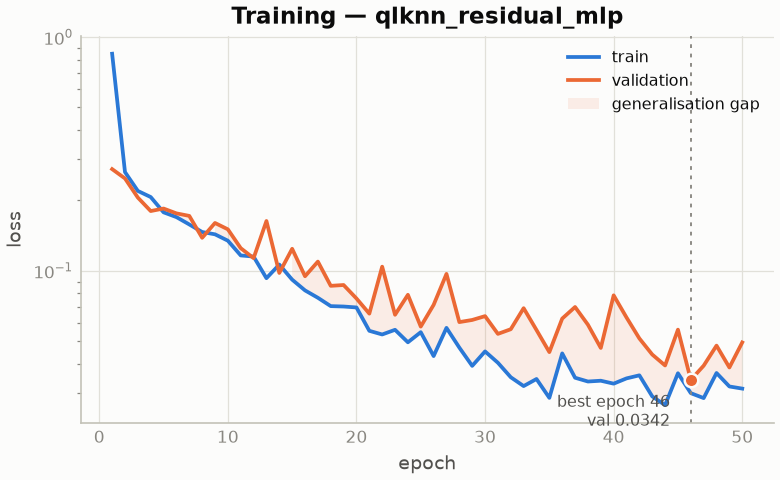
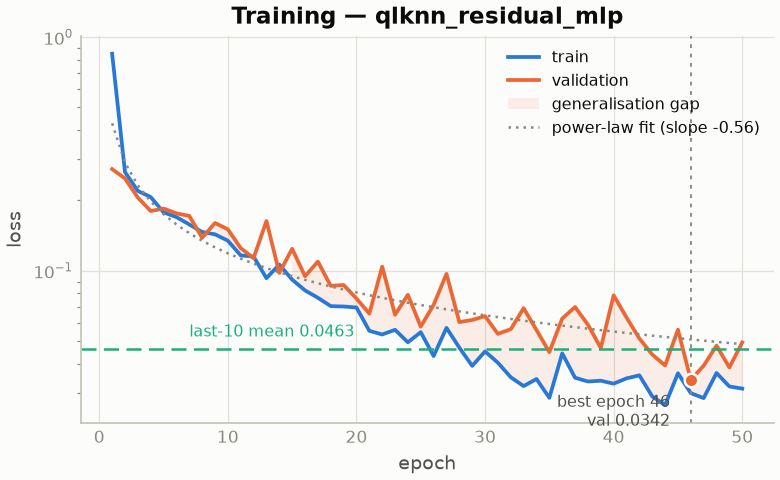
feat(viz,docs): ensemble UQ, three-backend comparison, 2D operator demo, MLflow showcase
New artifact/registry-driven gallery figures:
- ensemble: pytorch.mlp_ensemble (6 members) on QLKNN — mean ± 2σ
  parity (R² 0.84), spread-vs-error density, and honest coverage: raw
  ensemble σ is overconfident; σ-rescaling calibrated on a held-out
  split recovers near-Gaussian coverage
- trio: RF + PyTorch MLP + exact GP on identical 1.8k/600 QLKNN splits
  (R² 0.66 / 0.86 / 0.94) — three backends through one registry
- field2d: FNO-2D learns the periodic Poisson solver source→solution,
  median rel-L2 0.006 on 32×32 fields generated on the fly
- training curves gain a power-law convergence fit and the
  last-10-epoch mean level

README: MLflow badge + 'Experiment tracking' section with a screenshot
of a real SURGE run in the MLflow UI (24 per-model metrics logged via
surge.integrations.mlflow_logger), 2D-operator and ensemble cells in
the results grid, trio figure as evidence under the mixed-backend
example. Gallery page gains the three new sections.

Changed region(s): [[0.0923, 0.6562, 0.9846, 0.75], [0.6462, 0.0938, 0.9846, 0.2812]]

diff --git a/examples/viz_theme_gallery.py b/examples/viz_theme_gallery.py
@@ -19,7 +19,11 @@ Figures (per mode, deterministic PNG/SVG/PDF):
     leaderboard       score ± std vs published threshold + runtime panel
     classification    ROC / PR / confusion / reliability (with ECE)
     field_operator    Burgers' operator learning: truth · prediction · error
+    field2d           FNO-2D on the periodic Poisson problem (2D fields)
     uncertainty       GP surrogate with 95% credible band and coverage
+    ensemble          deep-ensemble UQ with raw vs calibrated coverage
+    trio              RF + PyTorch MLP + GP on identical splits
+    characterization  dataset EDA panel (distributions, SNR, PCA)
 """
 from __future__ import annotations
 
@@ -193,6 +197,22 @@ def training_figure(hpo_run: Path, mode: str):
                         (epochs[best], val[best]),
                         textcoords="offset points", xytext=(-10, -22),
                         ha="right", fontsize=7.5, color=p["ink2"])
+            # power-law convergence fit on the log-log val curve
+            ok = np.isfinite(val) & (val > 0) & (epochs > 0)
+            if ok.sum() > 5:
+                b, a = np.polyfit(np.log(epochs[ok]), np.log(val[ok]), 1)
+                ax.plot(epochs[ok], np.exp(a) * epochs[ok]**b,
+                        color=p["muted"], lw=1.2, ls=(0, (1, 2)),
+                        label=f"power-law fit (slope {b:.2f})")
+            # converged level: mean of the last 10 epochs
+            tail = val[np.isfinite(val)][-10:]
+            if len(tail):
+                lvl = float(tail.mean())
+                ax.axhline(lvl, color=p["series"][2], lw=1.2, ls=(0, (6, 3)))
+                ax.annotate(f"last-10 mean {fmt_metric(lvl, 'loss')}",
+                            (epochs[np.isfinite(val)][max(0, len(epochs)//8)], lvl),
+                            textcoords="offset points", xytext=(0, 6),
+                            fontsize=7.5, color=p["series"][2])
         ax.set_yscale("log")
         ax.set_xlabel("epoch"); ax.set_ylabel("loss")
         ax.set_title(f"Training — {name}")
@@ -658,6 +678,227 @@ def uncertainty_figure(mode: str, seed: int = 7):
         return fig
 
 
+# ---------------------------------------------------------------- ensemble
+
+def ensemble_figure(mode: str, seed: int = 0):
+    """Deep-ensemble UQ (pytorch.mlp_ensemble): mean parity, uncertainty
+    vs error, and empirical coverage — ensemble spread as error bars.
+    """
+    npz = _REPO / "data" / "datasets" / "benchmarks" / "plasma" / "qlknn_transport.npz"
+    if not npz.exists():
+        return None
+    from surge.model import MODEL_REGISTRY
+    try:
+        adapter = MODEL_REGISTRY.create(
+            "pytorch.mlp_ensemble", n_ensembles=6, hidden_dim=128,
+            n_layers=2, n_epochs=80, patience=15)
+    except KeyError:
+        return None
+
+    d = np.load(npz)
+    rng = np.random.default_rng(seed)
+    idx = rng.permutation(len(d["X"]))[:3000]
+    X, y = d["X"][idx].astype(np.float32), d["y"][idx].astype(np.float32)
+    n_te = 700
+    Xtr, ytr, Xte, yte = X[n_te:], y[n_te:], X[:n_te], y[:n_te]
+    mu_x, sd_x = Xtr.mean(0), Xtr.std(0) + 1e-9
+    adapter.fit((Xtr - mu_x) / sd_x, ytr)
+    mean, std = adapter.predict_with_uncertainty((Xte - mu_x) / sd_x)
+    mean, std = np.asarray(mean).ravel(), np.asarray(std).ravel()
+    err = np.abs(mean - yte)
+
+    from sklearn.metrics import r2_score
+    r2 = r2_score(yte, mean)
+    # raw deep-ensemble spread is typically overconfident; rescale sigma on
+    # a held-out calibration half so that 1-sigma coverage matches 68.3%
+    n_cal = len(yte) // 2
+    lam = float(np.quantile(err[:n_cal] / np.maximum(std[:n_cal], 1e-9),
+                            0.6827))
+    err_t, std_t = err[n_cal:], std[n_cal:]
+    ks = np.linspace(0.2, 3.0, 15)
+    coverage = [(err_t <= k * std_t).mean() for k in ks]
+    coverage_cal = [(err_t <= k * lam * std_t).mean() for k in ks]
+    from scipy.stats import norm
+    expected = [norm.cdf(k) - norm.cdf(-k) for k in ks]
+
+    with surge_theme(mode) as p:
+        fig, axes = plt.subplots(1, 3, figsize=(9.8, 3.1))
+        ax = axes[0]
+        sel = rng.choice(len(yte), 220, replace=False)
+        ax.errorbar(yte[sel], mean[sel], yerr=2 * std[sel], fmt="o",
+                    ms=3.2, color=p["series"][0], ecolor=p["series"][0],
+                    elinewidth=0.7, alpha=0.55, capsize=0)
+        lims = (min(yte.min(), mean.min()), max(yte.max(), mean.max()))
+        ax.plot(lims, lims, color=p["axis"], lw=0.9)
+        ax.set_xlabel("ground truth [gB]"); ax.set_ylabel("ensemble mean ± 2σ")
+        ax.set_title(f"(a) 6-member deep ensemble · R² {r2:.3f}", fontsize=9)
+
+        ax = axes[1]
+        cmap = density_cmap(mode)
+        ax.set_facecolor(cmap.get_under())
+        ax.hist2d(std, err, bins=40, cmap=cmap, norm=LogNorm(vmin=1), cmin=1)
+        hi = max(np.quantile(std, 0.99), np.quantile(err, 0.99))
+        ax.plot([0, hi], [0, hi], color=p["ink2"], lw=1.0, ls=(0, (4, 3)))
+        ax.set_xlim(0, hi); ax.set_ylim(0, hi)
+        ax.set_xlabel("predicted σ"); ax.set_ylabel("|error|")
+        ax.set_title("(b) raw spread is overconfident", fontsize=9)
+        ax.grid(alpha=0.5)
+
+        ax = axes[2]
+        ax.plot(ks, expected, color=p["axis"], lw=1.2, ls=(0, (4, 3)),
+                label="Gaussian ideal")
+        ax.plot(ks, coverage, color=p["series"][0], lw=1.6, marker="o",
+                ms=3.2, label="raw σ")
+        ax.plot(ks, coverage_cal, color=p["series"][2], lw=1.8, marker="s",
+                ms=3.2, label=f"calibrated σ (×{lam:.1f})")
+        ax.set_xlabel("k (σ multiples)"); ax.set_ylabel("coverage")
+        ax.set_title("(c) coverage: raw vs calibrated", fontsize=9)
+        ax.legend(fontsize=7, loc="lower right")
+        return fig
+
+
+# --------------------------------------------------- three-backend success
+
+def trio_figure(mode: str, seed: int = 0):
+    """RF + PyTorch MLP + Gaussian process succeeding side by side on the
+    QLKNN transport task (2,400-sample subsample so exact GP is exact).
+    """
+    npz = _REPO / "data" / "datasets" / "benchmarks" / "plasma" / "qlknn_transport.npz"
+    if not npz.exists():
+        return None
+    import time
+
+    from sklearn.gaussian_process.kernels import RBF, ConstantKernel, WhiteKernel
+    from sklearn.metrics import r2_score
+
+    from surge.model import MODEL_REGISTRY
+
+    d = np.load(npz)
+    rng = np.random.default_rng(seed)
+    idx = rng.permutation(len(d["X"]))[:2400]
+    X, y = d["X"][idx].astype(np.float64), d["y"][idx].astype(np.float64)
+    n_te = 600
+    Xtr, ytr, Xte, yte = X[n_te:], y[n_te:], X[:n_te], y[:n_te]
+    mu_x, sd_x = Xtr.mean(0), Xtr.std(0) + 1e-9
+    Xtr_s, Xte_s = (Xtr - mu_x) / sd_x, (Xte - mu_x) / sd_x
+
+    models = [
+        ("sklearn.random_forest", "Random forest", {}),
+        ("pytorch.mlp", "PyTorch MLP", {}),
+        ("sklearn.gpr", "Gaussian process",
+         {"kernel": ConstantKernel(1.0) * RBF(np.ones(X.shape[1]))
+                    + WhiteKernel(1e-2, (1e-6, 1e1)),
+          "normalize_y": True, "n_restarts_optimizer": 1}),
+    ]
+    results = []
+    for key, label, params in models:
+        try:
+            adapter = MODEL_REGISTRY.create(key, **params)
+        except KeyError:
+            continue
+        t0 = time.perf_counter()
+        adapter.fit(Xtr_s, ytr)
+        dt = time.perf_counter() - t0
+        pred = np.asarray(adapter.predict(Xte_s)).ravel()
+        results.append((label, pred, r2_score(yte, pred), dt))
+    if len(results) < 2:
+        return None
+
+    with surge_theme(mode) as p:
+        cmap = density_cmap(mode)
+        fig, axes = plt.subplots(1, len(results), figsize=(3.3 * len(results), 3.3))
+        lims = (float(yte.min()) - 1, float(yte.max()) + 1)
+        letters = "abc"
+        for k, (ax, (label, pred, r2, dt)) in enumerate(zip(axes, results)):
+            ax.set_facecolor(cmap.get_under())
+            ax.hist2d(yte, pred, bins=44, range=[lims, lims], cmap=cmap,
+                      norm=LogNorm(vmin=1), cmin=1)
+            ax.plot(lims, lims, color=p["ink2"], lw=1.1, ls=(0, (5, 3)))
+            ax.set_xlim(lims); ax.set_ylim(lims); ax.set_aspect("equal")
+            ax.set_title(f"({letters[k]}) {label}", fontsize=9.5)
+            ax.set_xlabel("ground truth [gB]")
+            if k == 0:
+                ax.set_ylabel("prediction [gB]")
+            _stat_chip(ax, f"R² {r2:.3f} · {fmt_metric(dt, 'runtime')}", p)
+            ax.grid(alpha=0.5)
+        fig.suptitle("Three backends, one registry — QLKNN ITG heat flux "
+                     f"({len(Xtr):,} train / {len(Xte):,} test)",
+                     fontsize=11, fontweight="bold")
+        return fig
+
+
+# ------------------------------------------------------ 2D operator (FNO)
+
+def field2d_figure(mode: str, seed: int = 0, n: int = 600, side: int = 32):
+    """2D operator learning: solve the periodic Poisson problem
+    ∇²u = −f with an FNO-2D surrogate trained source→solution.
+    Dataset generated on the fly (FFT spectral solve = exact reference).
+    """
+    from surge.model import MODEL_REGISTRY
+    try:
+        model = MODEL_REGISTRY.create("pytorch.fno2d", n_modes=10, n_epochs=60)
+    except KeyError:
+        return None
+
+    rng = np.random.default_rng(seed)
+    k = np.fft.fftfreq(side) * side
+    KX, KY = np.meshgrid(k, k, indexing="ij")
+    K2 = KX**2 + KY**2
+    # smooth Gaussian-random-field sources (low-pass filtered white noise)
+    noise = rng.standard_normal((n, side, side))
+    filt = np.exp(-(K2) / (2 * 6.0**2))
+    f_hat = np.fft.fft2(noise) * filt
+    f = np.real(np.fft.ifft2(f_hat))
+    f -= f.mean(axis=(1, 2), keepdims=True)
+    with np.errstate(divide="ignore", invalid="ignore"):
+        u_hat = np.where(K2 > 0, np.fft.fft2(f) / K2, 0.0)
+    u = np.real(np.fft.ifft2(u_hat))
+    scale = u.std()
+    u /= scale
+    f_in = f / f.std()
+
+    n_te = n // 5
+    Xtr = f_in[n_te:].reshape(n - n_te, -1).astype(np.float32)
+    ytr = u[n_te:].reshape(n - n_te, -1).astype(np.float32)
+    Xte = f_in[:n_te].reshape(n_te, -1).astype(np.float32)
+    yte = u[:n_te].reshape(n_te, -1).astype(np.float32)
+    model.fit(Xtr, ytr)
+    pred = np.asarray(model.predict(Xte)).reshape(n_te, side, side)
+    truth = yte.reshape(n_te, side, side)
+    rel = (np.linalg.norm((pred - truth).reshape(n_te, -1), axis=1)
+           / np.linalg.norm(truth.reshape(n_te, -1), axis=1))
+    i = int(np.argsort(rel)[len(rel) // 2])  # median sample
+
+    with surge_theme(mode) as p:
+        fig, axes = plt.subplots(1, 5, figsize=(11.8, 2.75),
+                                 width_ratios=[1, 1, 1, 1, 0.9])
+        panels = [
+            (f_in[i], "source  f(x, y)", sequential_cmap(mode), None),
+            (truth[i], "truth  u(x, y)", sequential_cmap(mode), None),
+            (pred[i], "FNO-2D prediction", sequential_cmap(mode), None),
+            (pred[i] - truth[i], "error", diverging_cmap(mode),
+             CenteredNorm(halfrange=float(np.abs(truth[i]).max()) * 0.1)),
+        ]
+        for ax, (img, title, cmap, nrm) in zip(axes[:4], panels):
+            im = ax.imshow(img, cmap=cmap, norm=nrm, interpolation="nearest")
+            ax.set_title(title, fontsize=9)
+            ax.set_xticks([]); ax.set_yticks([]); ax.grid(False)
+            cb = fig.colorbar(im, ax=ax, fraction=0.046, pad=0.02)
+            cb.ax.tick_params(labelsize=6)
+            cb.outline.set_visible(False)
+        axh = axes[4]
+        axh.hist(rel, bins=24, color=p["series"][0], alpha=0.9)
+        axh.axvline(float(np.median(rel)), color=p["series"][1], lw=1.3,
+                    ls=(0, (4, 3)))
+        axh.set_xlabel("rel-L2"); axh.set_ylabel("count")
+        axh.set_title(f"median {np.median(rel):.3f}", fontsize=9)
+        fig.suptitle(
+            f"2D operator learning — periodic Poisson ∇²u = −f · FNO-2D · "
+            f"{n - n_te} train / {n_te} test fields ({side}×{side})",
+            fontsize=10.5, fontweight="bold")
+        return fig
+
+
 # -------------------------------------------------------------------- main
 
 def main():
@@ -683,6 +924,9 @@ def main():
         "field_operator": field_operator_figure,
         "uncertainty": uncertainty_figure,
         "characterization": characterization_figure,
+        "ensemble": ensemble_figure,
+        "trio": trio_figure,
+        "field2d": field2d_figure,
     }
     if args.only:
         builders = {k: v for k, v in builders.items() if k in args.only}
@@ -703,3 +947,5 @@ def main():
 
 if __name__ == "__main__":
     main()
+
+

diff --git a/README.md b/README.md
@@ -4,6 +4,7 @@
 [![License: BSD-3-Clause](https://img.shields.io/badge/License-BSD_3--Clause-blue.svg)](./LICENSE)
 [![Python](https://img.shields.io/badge/python-3.10%20%7C%203.11%20%7C%203.12-blue.svg)](./pyproject.toml)
 [![Code style: ruff](https://img.shields.io/endpoint?url=https://raw.githubusercontent.com/astral-sh/ruff/main/assets/badge/v2.json)](https://github.com/astral-sh/ruff)
+[![MLflow](https://img.shields.io/badge/MLflow-integrated-0194E2?logo=mlflow&logoColor=white)](docs/GETTING_STARTED.md)
 [![DOE CODE](https://img.shields.io/badge/DOE%20CODE-179819-1e4d2e?labelColor=0d2818)](https://www.osti.gov/doecode/biblio/179819)
 [![DOI](https://img.shields.io/badge/DOI-10.11578%2Fdc.20260422.5-00758f?labelColor=004466)](https://doi.org/10.11578/dc.20260422.5)
 
@@ -89,10 +90,10 @@ sortable tables — generated exclusively from
 |:---:|:---:|
 | <img src="docs/assets/readme/parity.png" width="400" alt="Train/test parity density plots with reversed-plasma colormap and R² boxes"/> | <img src="docs/assets/readme/hpo_convergence.png" width="400" alt="HPO history with running best and starred best trials"/> |
 | *Plasma-transport surrogate (QLKNN ITG heat flux): HPO-tuned residual MLP, R² **0.98 train / 0.96 test**, log-density parity in the style of the ICRF surrogate papers.* | *Optuna HPO across models: per-trial traces, running best, gold star at each optimum.* |
-| <img src="docs/assets/readme/field_operator.png" width="400" alt="Burgers operator learning: sample fits, signed-error field, error distribution"/> | <img src="docs/assets/readme/uncertainty.png" width="400" alt="GP surrogate with 68/95% credible bands"/> |
-| *Operator learning on viscous Burgers' equation: best/median/worst test samples, signed-error field, per-sample rel-L2 distribution.* | *Gaussian-process surrogate with 68/95% credible bands — the band widens where training data is absent (96% truth coverage).* |
-| <img src="docs/assets/gallery/training_curves.png" width="400" alt="Training monitoring: train/val loss with generalisation gap and best epoch"/> | <img src="docs/assets/readme/characterization.png" width="400" alt="Dataset characterization panel with PCA spectrum"/> |
-| *Live training monitoring from per-epoch JSONL logs: generalisation gap shaded, best epoch starred; opt-in MLflow tracking mirrors every run (`mlflow_tracking: true` in the spec, or `surge bench --mlflow`).* | *Pre-training dataset characterization: distributions, signal-to-noise, input–target correlations, PCA effective dimensionality.* |
+| <img src="docs/assets/readme/field2d.png" width="400" alt="2D operator learning: FNO-2D solves the periodic Poisson problem, median rel-L2 0.006"/> | <img src="docs/assets/readme/uncertainty.png" width="400" alt="GP surrogate with 68/95% credible bands"/> |
+| *2D operator learning: FNO-2D learns the periodic Poisson solver source→solution at median rel-L2 **0.006** (32×32 fields; U-Net available for the same task shape).* | *Gaussian-process surrogate with 68/95% credible bands — the band widens where training data is absent (96% truth coverage).* |
+| <img src="docs/assets/readme/ensemble.png" width="400" alt="Deep-ensemble uncertainty: mean ± 2 sigma parity, spread vs error, raw vs calibrated coverage"/> | <img src="docs/assets/gallery/training_curves.png" width="400" alt="Training monitoring: train/val loss, generalisation gap, power-law fit, last-10-epoch mean"/> |
+| *Deep-ensemble UQ (`pytorch.mlp_ensemble`): mean ± 2σ predictions, and honest calibration — raw spread is overconfident; σ-rescaling on a held-out split recovers near-Gaussian coverage.* | *Training monitoring from per-epoch JSONL logs: generalisation gap shaded, best epoch starred, power-law convergence fit, last-10-epoch mean level.* |
 
 Regenerate everything above from your own runs — full gallery per
 problem type in [`docs/gallery.md`](docs/gallery.md):
@@ -191,7 +192,14 @@ surge run multi_backend.yaml
 same data — and any compiled `tf.keras` architecture of your own plugs
 in through the `build_fn` parameter of `keras.mlp` (see
 `surge/model/adapters/keras.py`), just as custom PyTorch models plug in
-via `examples/custom_cnn_adapter_template.py`.
+via `examples/custom_cnn_adapter_template.py`. Live example on the
+QLKNN transport task — three backends through one registry, and the
+small-data regime is exactly where the Gaussian process earns its keep:
+
+<p align="center">
+  <img src="docs/assets/readme/trio.png" width="760"
+       alt="Random forest, PyTorch MLP, and Gaussian process trained on identical QLKNN splits: R² 0.66 / 0.86 / 0.94"/>
+</p>
 
 ### 5 · Your own CSV / Parquet / PKL / HDF5 / NetCDF file
 
@@ -263,6 +271,31 @@ Per-run figures: `from surge.viz import viz_run; viz_run(Path("runs/<tag>"))`.
 Gallery of every figure type: `python examples/viz_theme_gallery.py`.
 
 ---
+
+## Experiment tracking (MLflow)
+
+Every run's parameters, per-model metrics, and artifacts can be mirrored
+to [MLflow](https://mlflow.org) — opt-in, no server required for local
+file/sqlite backends:
+
+```yaml
+# in any workflow spec
+mlflow_tracking: true
+mlflow_experiment: my-campaign
+```
+
+```bash
+surge bench -b tabular.california_housing -m all --mlflow   # benchmarks too
+python -c "from surge.integrations.mlflow_logger import log_surge_run; \
+from pathlib import Path; log_surge_run(Path('runs/qlknn_multi_hpo'))"
+```
+
+<p align="center">
+  <img src="docs/assets/readme/mlflow_tracking.png" width="820"
+       alt="A SURGE QLKNN run in the MLflow UI: 24 per-model train/val/test metrics, parameters, and artifacts logged"/>
+</p>
+<p align="center"><sub><em>A real SURGE run in the MLflow UI — per-model
+train/val/test metrics, parameters, and run artifacts.</em></sub></p>
 
 ## Documentation
 

diff --git a/docs/gallery.md b/docs/gallery.md
@@ -28,8 +28,9 @@ gold star at each model's optimum with its score.
 
 ## Neural-network training
 
-Per-epoch train/validation loss from the JSONL training logs, with the
-generalisation gap shaded and the best epoch marked.
+Per-epoch train/validation loss from the JSONL training logs: shaded
+generalisation gap, starred best epoch, power-law convergence fit, and
+the last-10-epoch mean level.
 
 ![Training curves](assets/gallery/training_curves.png)
 
@@ -47,6 +48,30 @@ worst test samples, the signed-error field over the whole test set
 (sorted by per-sample rel-L2), and the error distribution.
 
 ![Field operator diagnostics](assets/gallery/field_operator.png)
+
+## 2D operator learning
+
+FNO-2D learns the periodic Poisson solver (source → solution) at median
+rel-L2 0.006 on 32×32 fields generated on the fly — U-Net covers the
+same task shape.
+
+![2D operator learning triptych](assets/gallery/field2d.png)
+
+## Multi-backend comparison
+
+Random forest, PyTorch MLP, and an exact Gaussian process trained on
+identical QLKNN splits through the one registry — the small-data regime
+is where the GP earns its keep.
+
+![Three backends compared](assets/gallery/trio.png)
+
+## Deep-ensemble uncertainty
+
+`pytorch.mlp_ensemble` mean ± 2σ with honest calibration: raw ensemble
+spread is overconfident; σ-rescaling on a held-out split recovers
+near-Gaussian coverage.
+
+![Deep ensemble UQ](assets/gallery/ensemble.png)
 
 ## Uncertainty quantification
 
